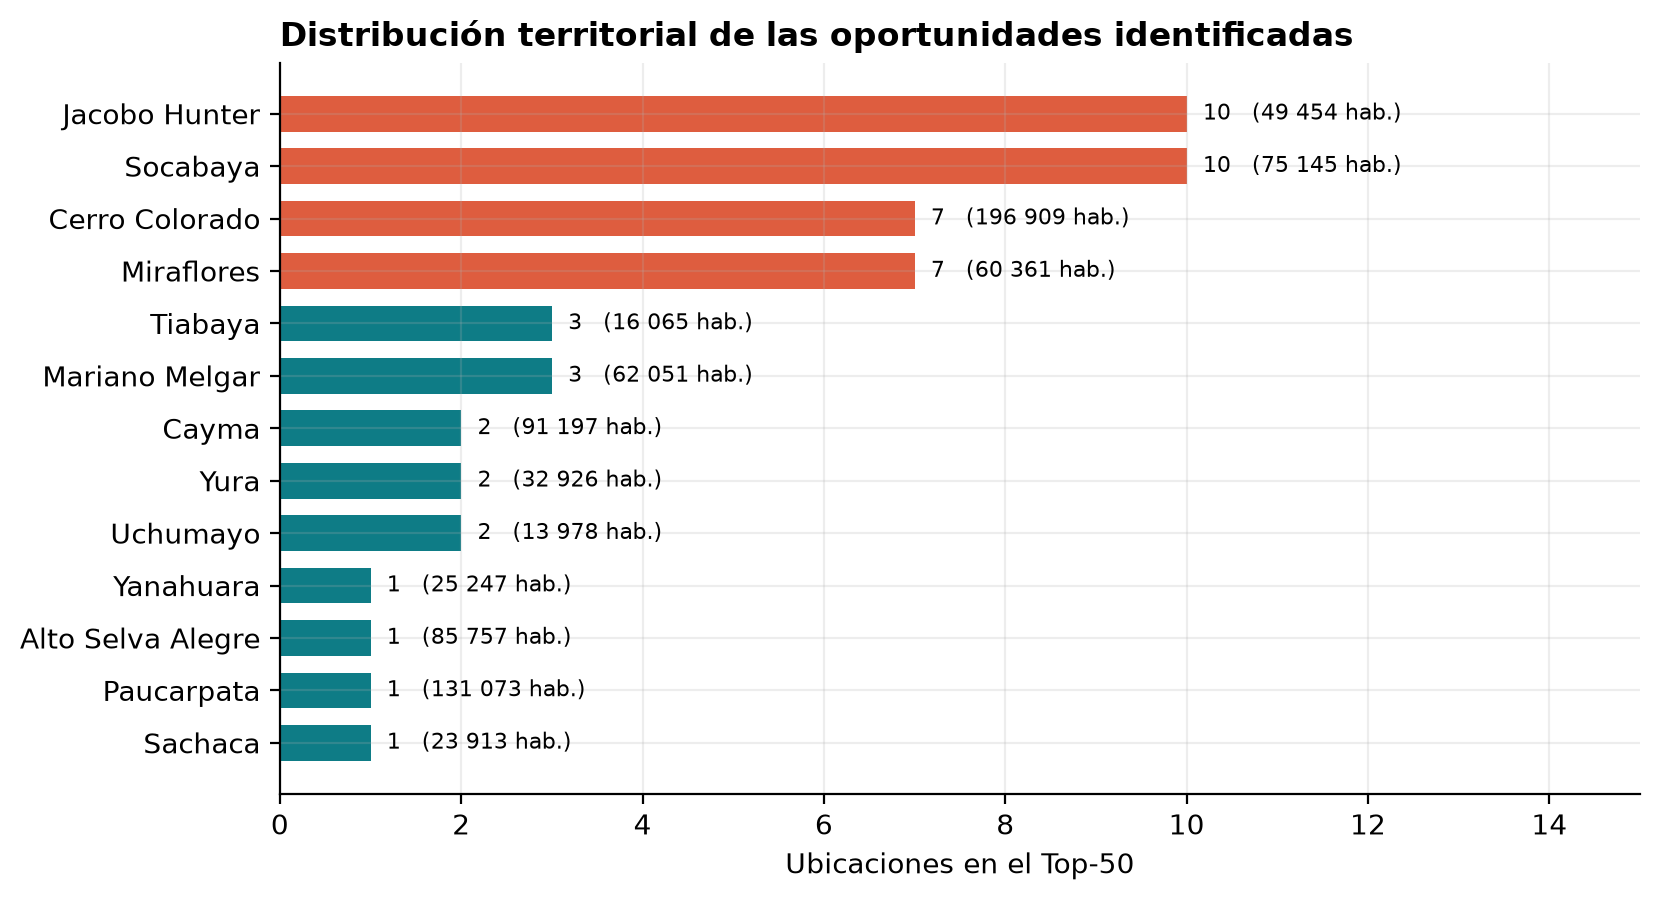
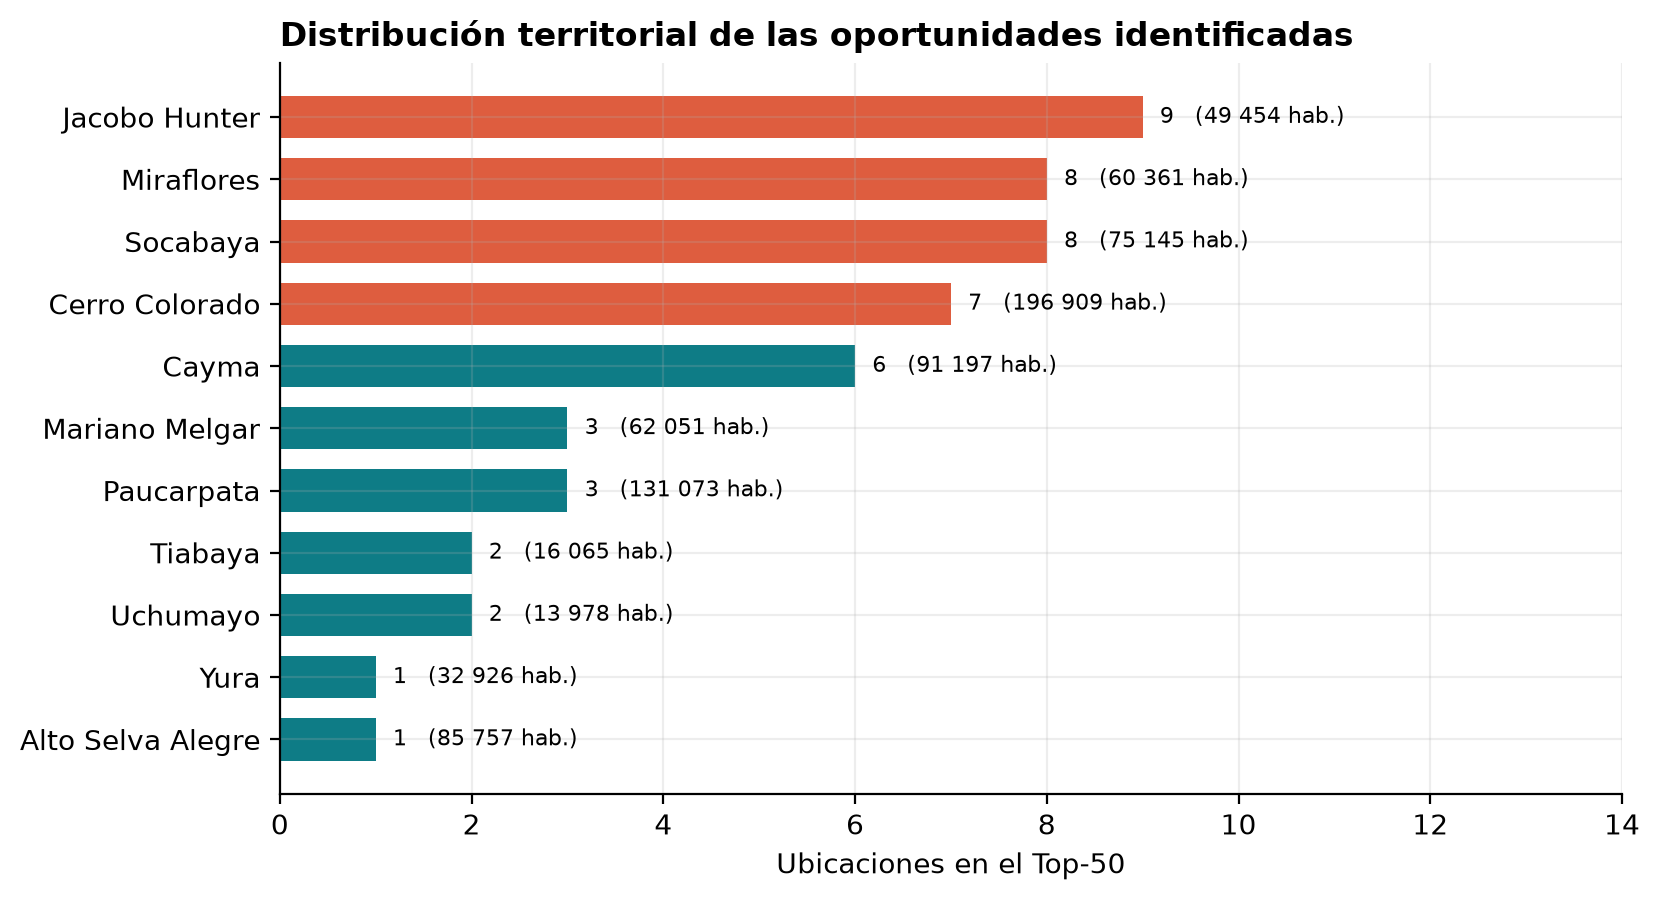
Calcular el ranking final con los parametros elicitados por el panel AHP

diff --git a/pipeline.py b/pipeline.py
@@ -360,7 +360,7 @@ def modelos(F):
     return F
 
 
-def score(F, grid, gasto_mes=180, w_pot=0.45, pen_mass=0.60, radio=800, pob_min=1500):
+def score(F, grid, gasto_mes=180, w_pot=0.344, pen_mass=0.261, radio=750, pob_min=1500):
     print("[5] Score y ranking")
     F["demanda_pot"] = F["pob_k1"] * gasto_mes
     F["oferta_k1"] = F["n_comp_osm_k1"] + F["mass_k1_2026"] * 3
